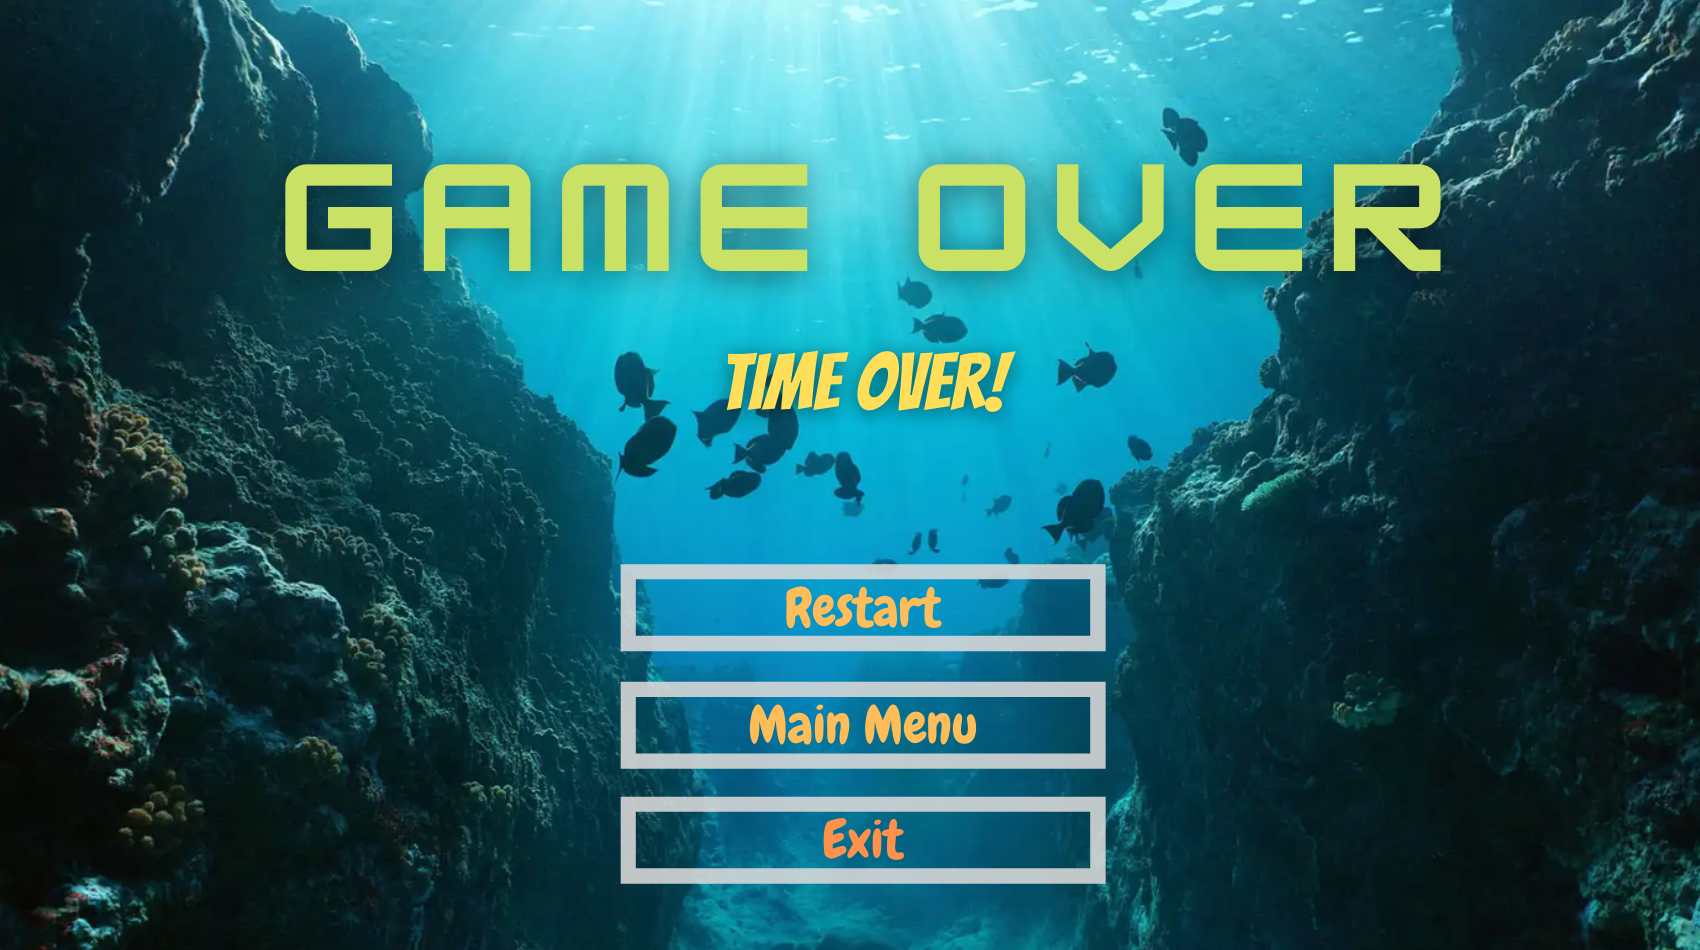
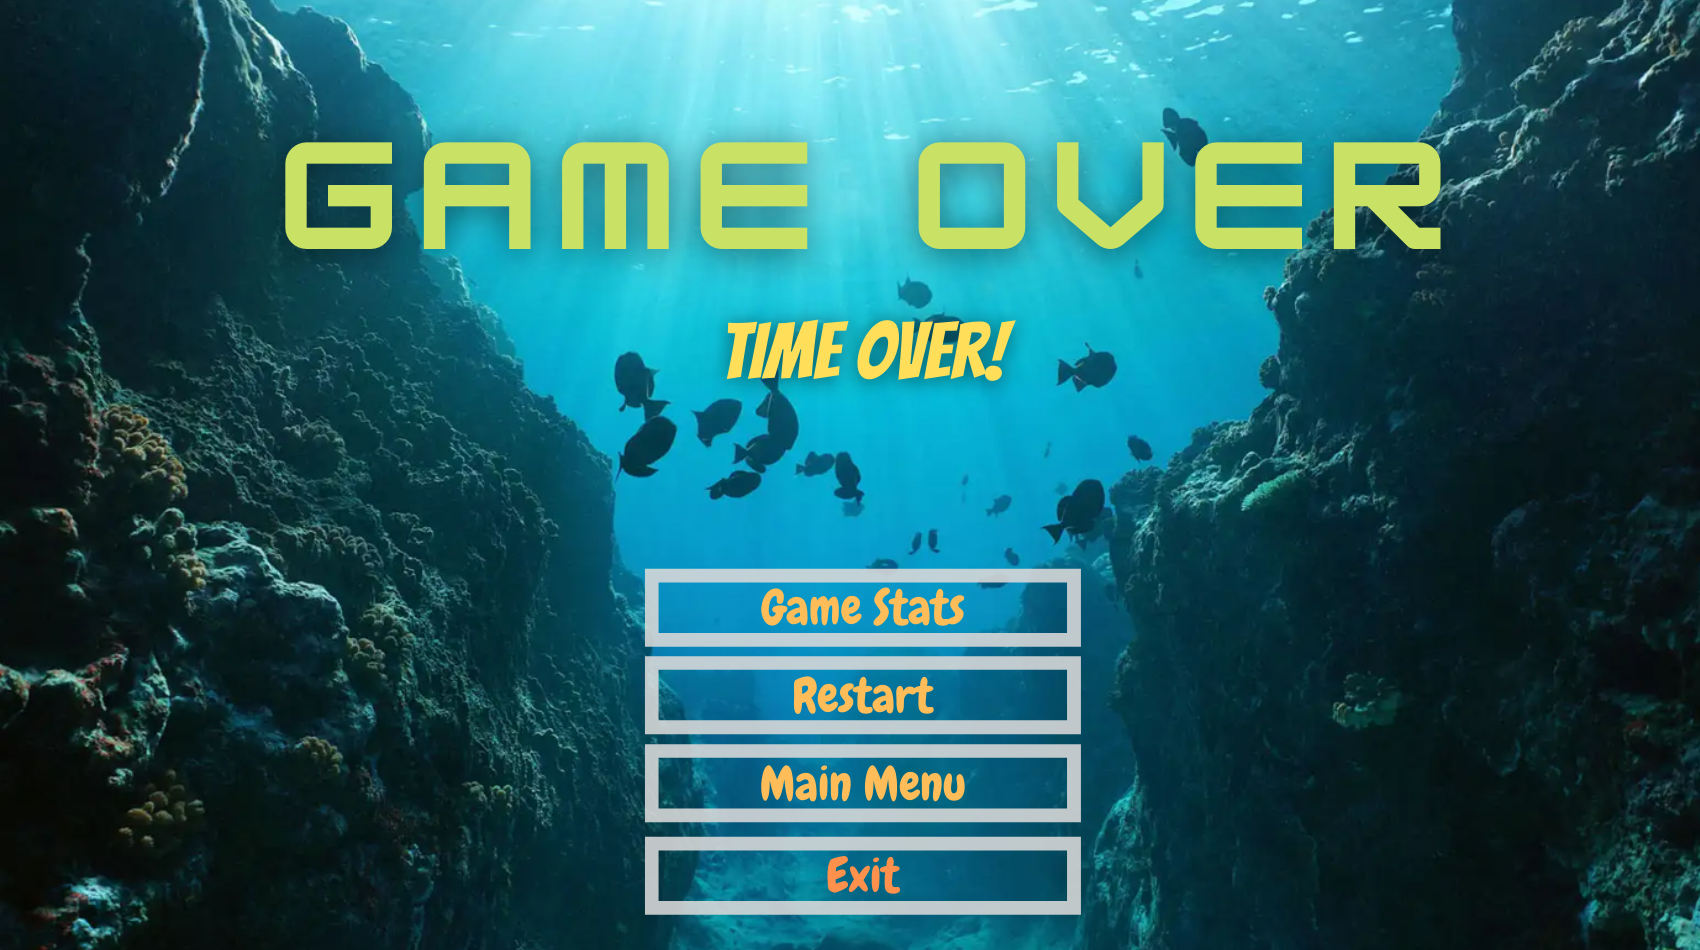
End Screen Changes + BUG FIX
Added a game stats option
Some small bugs fixed
AirWaterScreen Variable initialization fixed

diff --git a/core/src/com/mygdx/game/EndScreen.java b/core/src/com/mygdx/game/EndScreen.java
@@ -66,6 +66,8 @@ public class EndScreen implements Screen {
         endscreen4 = new Texture("EndScreen\\3.png");
         mute = new Texture("Audio\\mute.png") ;
 
+
+
     }
 
     @Override
@@ -165,27 +167,37 @@ public class EndScreen implements Screen {
 
     public void button()
     {
-        if (Gdx.input.getX() >= 621 && Gdx.input.getX() <= 1105 &&
-                MyGdxGame.SCREEN_HEIGHT - Gdx.input.getY() >= 300
-                && MyGdxGame.SCREEN_HEIGHT - Gdx.input.getY() <= 385) {
-            if (Gdx.input.isTouched()) {
+
+        if (Gdx.input.getX() >= 644 && Gdx.input.getX() <= 1080 &&
+                MyGdxGame.SCREEN_HEIGHT - Gdx.input.getY() >= 303
+                && MyGdxGame.SCREEN_HEIGHT - Gdx.input.getY() <= 303+78) {
+            if (Gdx.input.justTouched()) {
                 this.dispose();
                 SoundManager.click.play();
                 game.setScreen(new AirWaterScreen(game,soundState));
             }
         }
-        if (Gdx.input.getX() >= 621 && Gdx.input.getX() <= 1105 &&
-                MyGdxGame.SCREEN_HEIGHT - Gdx.input.getY() >= 180
-                && MyGdxGame.SCREEN_HEIGHT - Gdx.input.getY() <= 265) {
-            if (Gdx.input.isTouched()) {
+        if (Gdx.input.getX() >= 644 && Gdx.input.getX() <= 1080 &&
+                MyGdxGame.SCREEN_HEIGHT - Gdx.input.getY() >= 215
+                && MyGdxGame.SCREEN_HEIGHT - Gdx.input.getY() <= 215+78) {
+            if (Gdx.input.justTouched()) {
+                this.dispose();
+                SoundManager.click.play();
+                game.setScreen(new AirWaterScreen(game,soundState));
+            }
+        }
+        if (Gdx.input.getX() >= 644 && Gdx.input.getX() <= 1080 &&
+                MyGdxGame.SCREEN_HEIGHT - Gdx.input.getY() >= 128
+                && MyGdxGame.SCREEN_HEIGHT - Gdx.input.getY() <= 128+78) {
+            if (Gdx.input.justTouched()) {
                 this.dispose();
                 SoundManager.click.play();
                 game.setScreen(new GameMenuScreen(game,soundState));
             }
         }
-        if (Gdx.input.getX() >= 621 && Gdx.input.getX() <= 1105 &&
-                MyGdxGame.SCREEN_HEIGHT - Gdx.input.getY() >= 65
-                && MyGdxGame.SCREEN_HEIGHT - Gdx.input.getY() <= 150) {
+        if (Gdx.input.getX() >= 644 && Gdx.input.getX() <= 1080 &&
+                MyGdxGame.SCREEN_HEIGHT - Gdx.input.getY() >= 36
+                && MyGdxGame.SCREEN_HEIGHT - Gdx.input.getY() <= 36+78) {
             if (Gdx.input.isTouched()) {
                 System.exit(0);
             }

diff --git a/core/src/game/AirWaterScreen.java b/core/src/game/AirWaterScreen.java
@@ -97,6 +97,7 @@ public class AirWaterScreen implements Screen {
 
     public AirWaterScreen(MyGdxGame game,boolean soundState) {
         this.game = game;
+        this.soundState = soundState;
 
         rand = new Random();
 
@@ -112,8 +113,10 @@ public class AirWaterScreen implements Screen {
 
         gameTime = new GameTime(); // creating GameTime object
 
-        this.soundState = soundState;
-
+        totalSpellCnt = 0;
+        totalSpellMissCnt = 0;
+        totalMonsterHitCnt = 0;
+        totalMonsterMissCnt = 0;
     }
 
     @Override
